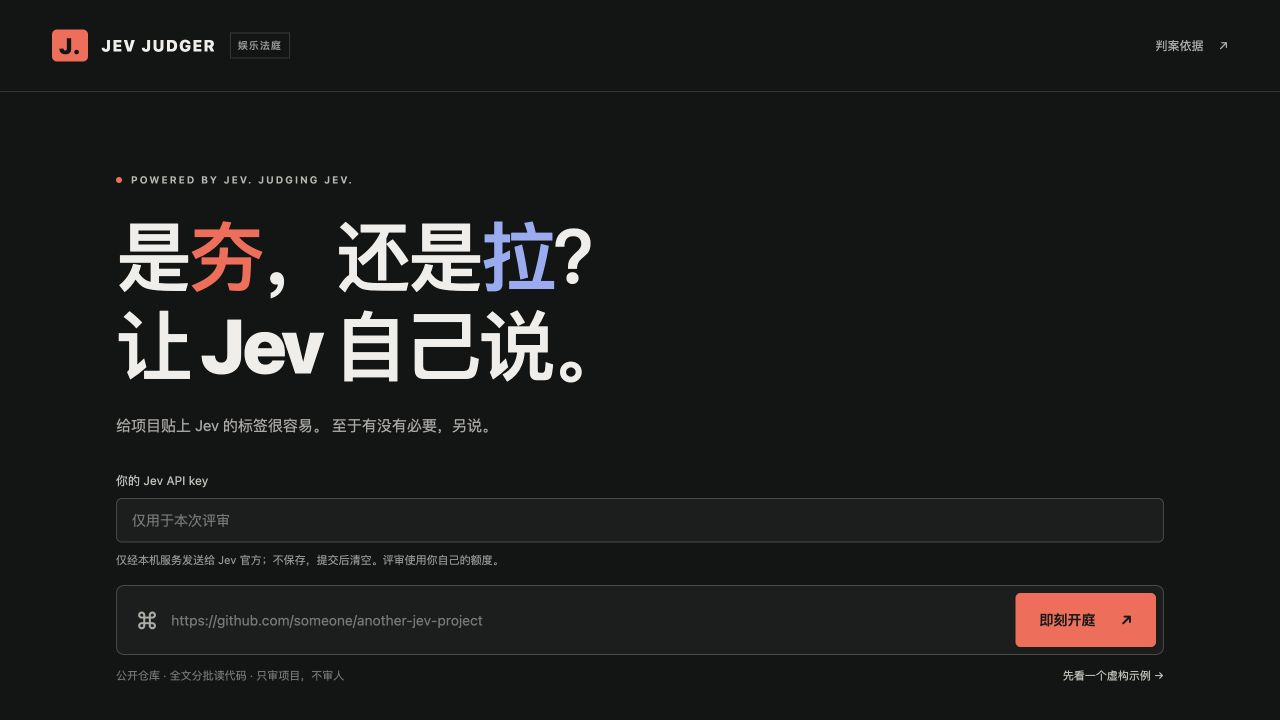
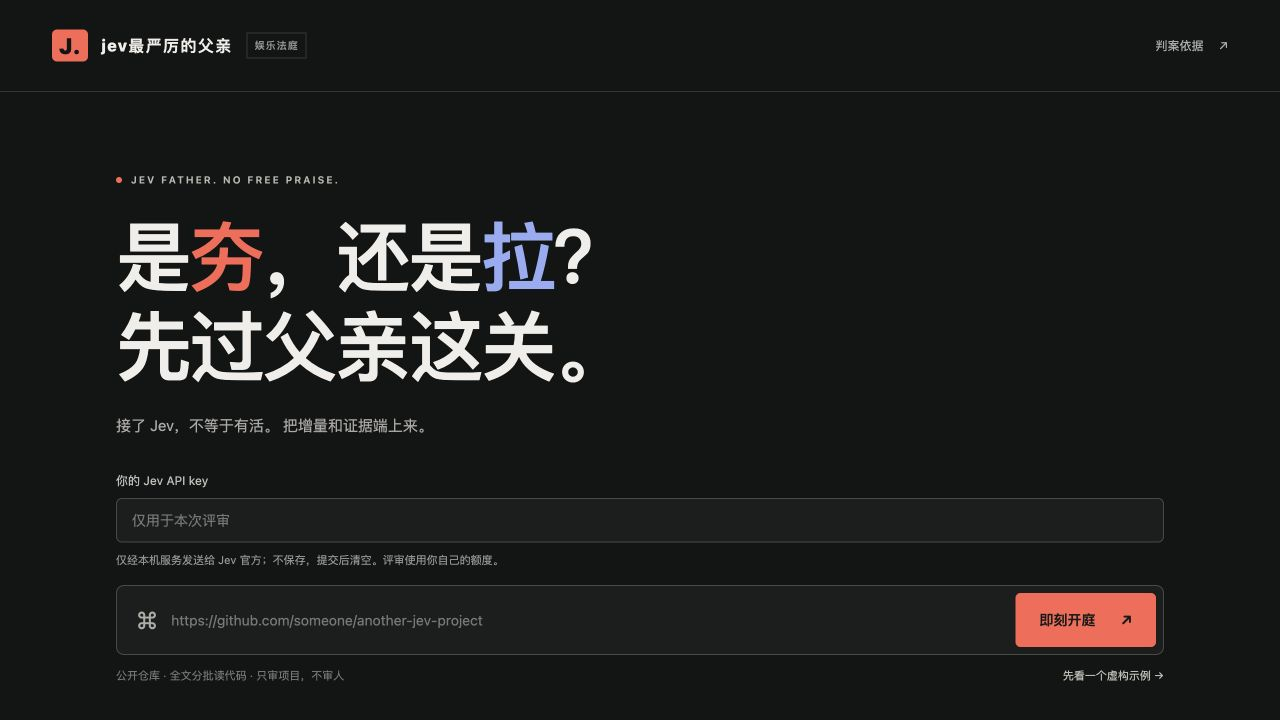
Rename to jev-father and demand demonstrated incremental value

diff --git a/public/style.css b/public/style.css
@@ -1,3 +1,5 @@
 :root{color-scheme:dark;--bg:#131414;--panel:#1b1c1d;--line:#343536;--text:#efeee9;--muted:#949593;--accent:#ff6552;font-family:Inter,-apple-system,BlinkMacSystemFont,"Segoe UI","PingFang SC","Microsoft YaHei",sans-serif;font-synthesis:none}*{box-sizing:border-box}html{scroll-behavior:smooth}body{margin:0;background:var(--bg);color:var(--text)}button,input{font:inherit}button,a,input{ -webkit-tap-highlight-color:transparent}a{color:inherit;text-decoration:none}button{cursor:pointer}button:disabled{cursor:wait;opacity:.55}a:focus-visible,button:focus-visible,summary:focus-visible{outline:2px solid var(--accent);outline-offset:5px}.topbar{max-width:1320px;margin:auto;height:92px;padding:0 52px;display:flex;justify-content:space-between;align-items:center;border-bottom:1px solid var(--line)}.brand{font-size:16px;font-weight:800;letter-spacing:1.4px;display:flex;align-items:center;gap:13px}.brand-icon{background:var(--accent);color:var(--bg);font-size:22px;border-radius:5px;padding:3px 7px;font-weight:900}.beta{font-size:10px;letter-spacing:1px;color:var(--muted);border:1px solid var(--line);padding:5px 7px;margin-left:1px;font-weight:500}.how-link{font-size:12px;color:#b1b2ae}.how-link span{margin-left:12px}main{max-width:1120px;padding:0 36px;margin:auto}.hero{padding:72px 0 39px}.eyebrow{font-size:10px;letter-spacing:2px;font-weight:600;color:#b8bab2;display:flex;align-items:center;gap:9px}.live-dot{width:6px;height:6px;border-radius:50%;background:var(--accent)}h1{font-size:clamp(44px,6.6vw,76px);line-height:1.18;letter-spacing:-3px;margin:25px 0 21px;font-weight:850}.hot{color:var(--accent)}.cold{color:#95acf4}.intro{font-size:15px;color:#aaa9a5;line-height:1.9;margin:0 0 33px}.mobile-br{display:none}.input-wrap{display:flex;align-items:center;padding:7px;border:1px solid #494a48;background:#1c1d1d;border-radius:8px;gap:13px;transition:border .2s}.input-wrap:focus-within{border-color:#a19e96}.git-mark{font-size:24px;padding-left:12px;color:#acada6}input{min-width:0;flex:1;color:var(--text);background:transparent;border:0;outline:0;font-size:14px;padding:11px 0}input::placeholder{color:#787a76}.input-wrap button{border:0;border-radius:5px;background:var(--accent);color:#181918;font-size:14px;font-weight:800;padding:17px 24px;white-space:nowrap}.input-wrap button span{margin-left:22px}.form-meta{display:flex;align-items:center;justify-content:space-between;gap:12px;margin-top:13px;color:#777b75;font-size:11px}.text-button{border:0;padding:0;color:#bdc0b7;background:none;font-size:11px}.text-button:hover{color:var(--accent)}.config{font-size:12px;color:#cdb99b;border-left:2px solid #957959;padding-left:10px;margin:18px 0 0}#status{font-size:13px;padding:14px 16px;border:1px solid var(--line);border-radius:5px;line-height:1.7}#status.error{color:#ff958b;border-color:#63423e}#status.loading{color:#f1d563}#status.loading:before{content:'';display:inline-block;width:8px;height:8px;border-radius:50%;background:currentColor;margin-right:10px;animation:pulse 1s infinite alternate}@keyframes pulse{to{opacity:.2}}.tier-scale{display:grid;grid-template-columns:repeat(5,1fr);gap:8px}.tier-scale>div{border:1px solid #343535;border-top:3px solid var(--tier);background:#1b1c1c;padding:17px 18px;display:flex;justify-content:space-between;align-items:baseline;gap:8px;border-radius:3px}.tier-scale b{font-size:20px;color:var(--tier);white-space:nowrap}.tier-scale span{font-size:10px;color:#8d9089;white-space:nowrap}.how{margin-top:73px;border-top:1px solid var(--line);padding-top:32px}.section-heading>span{font-size:10px;letter-spacing:2px;color:#84897e}.section-heading h2{font-size:26px;letter-spacing:-.7px;margin:15px 0 9px}.section-heading p{font-size:12px;color:var(--muted);margin:0}.steps{display:grid;grid-template-columns:repeat(3,1fr);gap:32px;margin-top:35px}.step{font-size:12px;font-family:monospace;color:var(--accent)}.steps article{position:relative;border-left:1px solid var(--line);padding-left:21px}.steps h3{font-size:16px;margin:15px 0 10px}.steps p{font-size:12px;color:#979b93;line-height:1.95;max-width:275px;min-height:47px}.steps code{font-size:10px;color:#c1c4ba}footer{border-top:1px solid var(--line);margin-top:56px;padding:25px 0 32px;color:#797e75;display:flex;justify-content:space-between;gap:20px;font-size:10px;letter-spacing:.6px}.footer-dot{margin:0 9px;color:var(--accent)}.sr-only{position:absolute;width:1px;height:1px;padding:0;overflow:hidden;clip:rect(0,0,0,0);white-space:nowrap;border:0}[hidden]{display:none!important}#result{margin-top:36px;scroll-margin-top:20px}.result-shell{border:1px solid #46463f;border-radius:8px;overflow:hidden;background:#1b1c1c}.result-top{padding:18px 24px;display:flex;justify-content:space-between;gap:14px;font-size:12px;border-bottom:1px solid var(--line);overflow-wrap:anywhere}.result-top span{color:var(--muted)}.demo-label{color:#ffb454!important;font-size:11px}.verdict{display:grid;grid-template-columns:140px 1fr;gap:26px;padding:32px 28px}.stamp{display:flex;align-items:center;justify-content:center;font-size:46px;font-weight:900;letter-spacing:-2px;border:2px solid var(--verdict);color:var(--verdict);border-radius:6px;transform:rotate(-5deg);min-height:115px;text-align:center;padding:10px}.stamp.long{font-size:28px}.verdict-copy small{font-size:10px;letter-spacing:1.8px;color:var(--muted)}.verdict-copy h2{font-size:26px;margin:13px 0 12px;line-height:1.5;letter-spacing:-.6px}.verdict-copy p{font-size:12px;color:#a4a69c;line-height:1.8;margin:0}.distribution{display:flex;gap:6px;padding:0 28px 27px;flex-wrap:wrap}.prob{flex:1;min-width:80px;background:#232523;border-radius:4px;padding:10px}.prob div{display:flex;justify-content:space-between;font-size:10px;color:#aeb3a8;gap:12px}.prob-track{height:3px;background:#393b36;margin-top:10px}.prob-fill{height:100%;background:var(--verdict)}.dimensions{border-top:1px solid var(--line);padding:0 25px}.dimension{display:grid;grid-template-columns:125px 1fr 58px;gap:22px;padding:20px 0;border-bottom:1px solid var(--line);align-items:start}.dimension:last-child{border-bottom:0}.dimension h3{font-size:13px;margin:3px 0}.dimension strong{font-weight:500;font-size:14px;color:#e8e8df}.dimension p{font-size:11px;color:#969b90;line-height:1.85;margin:8px 0 0}.confidence{font-family:monospace;font-size:12px;color:#a4a99e;text-align:right;padding-top:4px}.evidence{margin-top:18px;border:1px solid var(--line);border-radius:6px;padding:18px 22px;font-size:12px;color:#afb4a8}.evidence summary{cursor:pointer;color:#d4d9cc;line-height:1.7}.evidence p{line-height:1.8}.evidence a{color:#ffb454;text-decoration:underline;text-underline-offset:3px}.file{border-top:1px solid var(--line);padding:14px 0}.file summary{font-family:monospace;font-size:11px}pre{white-space:pre-wrap;overflow-wrap:anywhere;background:#101211;padding:15px;line-height:1.7;font-size:11px;color:#aeb6a3;max-height:320px;overflow:auto}.result-actions{display:flex;gap:16px;margin-top:18px}.result-actions button{border:1px solid #494d43;background:transparent;padding:9px 13px;border-radius:4px;color:#d0d6c7;font-size:11px}.limitations{font-size:11px;color:#828b79;line-height:1.9;margin:17px 0}.warn{color:#ffb454!important}@media(min-width:1200px){.hero{padding-top:82px}}@media(max-width:900px){.tier-scale>div{flex-direction:column;gap:7px;padding:14px}.topbar{padding:0 36px}.verdict-copy h2{font-size:23px}}@media(max-width:600px){main{padding:0 21px}.topbar{height:74px;padding:0 21px}.brand{font-size:12px;gap:9px}.beta{font-size:9px}.how-link{font-size:10px}.hero{padding-top:49px}.eyebrow{font-size:8px;letter-spacing:1.5px}h1{font-size:47px;letter-spacing:-2px}.intro{font-size:13px}.mobile-br{display:block}.git-mark{display:none}.input-wrap{gap:5px}input{font-size:12px;padding-left:8px}.input-wrap button{font-size:12px;padding:14px 12px}.input-wrap button span{margin-left:5px}.form-meta{align-items:flex-start;flex-direction:column;font-size:10px;gap:13px}.tier-scale{gap:5px}.tier-scale>div{padding:12px 6px;align-items:center}.tier-scale b{font-size:17px}.tier-scale span{font-size:8px;white-space:normal;text-align:center;line-height:1.5}.how{margin-top:49px}.steps{grid-template-columns:1fr;gap:27px}.steps p{max-width:none;min-height:0}.section-heading h2{font-size:23px}footer{font-size:9px;flex-direction:column;gap:13px}.verdict{grid-template-columns:90px 1fr;padding:25px 17px;gap:17px}.stamp{font-size:30px;min-height:95px}.stamp.long{font-size:21px}.verdict-copy h2{font-size:19px}.verdict-copy small{font-size:8px}.verdict-copy p{font-size:10px}.distribution{padding:0 17px 22px}.prob{min-width:75px}.dimension{grid-template-columns:1fr 46px;gap:9px}.dimension h3{grid-column:1/-1;color:#c8ccbf;font-size:11px}.dimension strong{font-size:13px}.result-top{padding:15px 17px;font-size:10px;flex-direction:column}.dimensions{padding:0 17px}.evidence{padding:16px}.config{line-height:1.8}}@media(prefers-reduced-motion:reduce){html{scroll-behavior:auto}*{animation:none!important;transition:none!important}}
 
 .key-field{margin-bottom:15px}.key-field label{display:block;font-size:12px;color:#bfc1b9;margin-bottom:9px}.key-field input{box-sizing:border-box;width:100%;border:1px solid #494a48;border-radius:6px;padding:13px 15px;background:#1c1d1d}.key-field input:focus{border-color:#a19e96}.key-field p{font-size:11px;color:var(--muted);line-height:1.8;margin:8px 0 0}
+
+@media(max-width:600px){.brand .beta{display:none}.brand{letter-spacing:0}}

diff --git a/public/index.html b/public/index.html
@@ -1,20 +1,20 @@
 <!doctype html>
 <html lang="zh-CN">
-<head><meta charset="utf-8"><meta name="viewport" content="width=device-width, initial-scale=1"><title>Jev Judger · 从夯到拉</title><link rel="icon" href="/favicon.svg"><link rel="stylesheet" href="/style.css"></head>
+<head><meta charset="utf-8"><meta name="viewport" content="width=device-width, initial-scale=1"><title>jev最严厉的父亲</title><link rel="icon" href="/favicon.svg"><link rel="stylesheet" href="/style.css"></head>
 <body>
-  <header class="topbar"><a class="brand" href="/"><span class="brand-icon">J.</span> JEV JUDGER<span class="beta">娱乐法庭</span></a><a class="how-link" href="#how">判案依据 <span>↗</span></a></header>
+  <header class="topbar"><a class="brand" href="/"><span class="brand-icon">J.</span> jev最严厉的父亲<span class="beta">娱乐法庭</span></a><a class="how-link" href="#how">判案依据 <span>↗</span></a></header>
   <main>
     <section class="hero">
-      <div class="eyebrow"><span class="live-dot"></span> POWERED BY JEV. JUDGING JEV.</div>
-      <h1>是<span class="hot">夯</span>，还是<span class="cold">拉</span>？<br>让 Jev 自己说。</h1>
-      <p class="intro">给项目贴上 Jev 的标签很容易。<br class="mobile-br"> 至于有没有必要，另说。</p>
+      <div class="eyebrow"><span class="live-dot"></span> JEV FATHER. NO FREE PRAISE.</div>
+      <h1>是<span class="hot">夯</span>，还是<span class="cold">拉</span>？<br>先过父亲这关。</h1>
+      <p class="intro">接了 Jev，不等于有活。<br class="mobile-br"> 把增量和证据端上来。</p>
       <form id="judge-form" autocomplete="off"><div class="key-field"><label for="api-key">你的 Jev API key</label><input id="api-key" type="password" placeholder="仅用于本次评审" autocomplete="off" spellcheck="false" autocapitalize="none" maxlength="1024" aria-describedby="key-help"><p id="key-help">仅经本机服务发送给 Jev 官方；不保存，提交后清空。评审使用你自己的额度。</p></div><label for="repo-url" class="sr-only">GitHub 仓库链接</label><div class="input-wrap"><span class="git-mark" aria-hidden="true">⌘</span><input id="repo-url" name="url" type="url" placeholder="https://github.com/someone/another-jev-project" autocomplete="off" required><button id="submit" type="submit">即刻开庭 <span>↗</span></button></div></form>
       <div class="form-meta"><span>公开仓库 · 全文分批读代码 · 只审项目，不审人</span><button id="demo" class="text-button">先看一个虚构示例 →</button></div>
       <p id="config" class="config" hidden></p><p id="status" role="status" aria-live="polite" hidden></p>
     </section>
-    <section class="tier-scale" aria-label="从夯到拉五档评价"><div style="--tier:#ff6552"><b>夯</b><span>用在刀刃上</span></div><div style="--tier:#ffb454"><b>顶级</b><span>确实有点东西</span></div><div style="--tier:#f1d563"><b>人上人</b><span>有活，但不多</span></div><div style="--tier:#88c6a8"><b>NPC</b><span>接上了，然后呢</span></div><div style="--tier:#95acf4"><b>拉</b><span>这也能怪 Jev？</span></div></section>
+    <section class="tier-scale" aria-label="从夯到拉五档评价"><div style="--tier:#ff6552"><b>夯</b><span>用在刀刃上</span></div><div style="--tier:#ffb454"><b>顶级</b><span>基线确实赢了</span></div><div style="--tier:#f1d563"><b>人上人</b><span>增量拿证据说话</span></div><div style="--tier:#88c6a8"><b>NPC</b><span>接上了，然后呢</span></div><div style="--tier:#95acf4"><b>拉</b><span>这也能怪 Jev？</span></div></section>
     <section id="result" hidden aria-label="评价结果"></section>
-    <section id="how" class="how"><div class="section-heading"><span>01 / THE HARNESS</span><h2>一点依据，一点嘴替。</h2><p>看实际增量，保留正反依据，最后用 Choice 选档。</p></div><div class="steps"><article><span class="step">01</span><h3>把项目端上来</h3><p>固定 commit，读取范围内的全部源码和文档。重复内容去重，长实验日志统计全部记录，外部资料单独存档。</p><code>GitHub → full-text batches</code></article><article><span class="step">02</span><h3>逐批看，放一起判</h3><p>每批用 Choice 判断五个维度并选择来源片段，再做一次全项目复核，保留正反意见。</p><code>batches → Choice → merge</code></article><article><span class="step">03</span><h3>Jev 亲自落锤</h3><p>普通封装起步 NPC；有用集成可到人上人；顶级与夯要有对照支持增益。仍由 Jev 五选一。</p><code>1 × Choice → 从夯到拉</code></article></div></section>
-    <footer><span>JEV JUDGER <span class="footer-dot">/</span> 一本正经，仅供娱乐。</span><a href="https://docs.typesafe.ai/primitives/choice" target="_blank" rel="noreferrer">Jev native, literally. ↗</a></footer>
+    <section id="how" class="how"><div class="section-heading"><span>01 / THE HARNESS</span><h2>不收孝心，只看证据。</h2><p>看实际增量，保留正反依据，最后用 Choice 选档。</p></div><div class="steps"><article><span class="step">01</span><h3>把项目端上来</h3><p>固定 commit，读取范围内的全部源码和文档。重复内容去重，长实验日志统计全部记录，外部资料单独存档。</p><code>GitHub → full-text batches</code></article><article><span class="step">02</span><h3>逐批看，放一起判</h3><p>每批用 Choice 判断五个维度并选择来源片段，再做一次全项目复核，保留正反意见。</p><code>batches → Choice → merge</code></article><article><span class="step">03</span><h3>Jev 亲自落锤</h3><p>能用不等于优秀。通用集成先看 NPC；人上人要验证新增能力；顶级与夯要公平基线和消融。</p><code>1 × Choice → 从夯到拉</code></article></div></section>
+    <footer><span>JEV FATHER <span class="footer-dot">/</span> 严厉归严厉，只审项目不审人。</span><a href="https://docs.typesafe.ai/primitives/choice" target="_blank" rel="noreferrer">Jev native, literally. ↗</a></footer>
   </main><script type="module" src="/app.js"></script>
 </body></html>

diff --git a/public/app.js b/public/app.js
@@ -54,7 +54,7 @@ function render(result) {
   $('#result').innerHTML = `
     <div class="result-shell" style="--verdict:${esc(result.color)}">
       <div class="result-top"><b>${repoLabel}</b><span class="${result.demo ? 'demo-label' : ''}">${result.demo ? '虚构示例 · 预设结果 · 未调用 Jev' : `COMMIT ${esc(repo.sha.slice(0, 7))} · ${repo.files.length} 个文件`}</span></div>
-      <div class="verdict"><div class="stamp ${result.label.length > 2 ? 'long' : ''}">${esc(result.label)}</div><div class="verdict-copy"><small>THE JEV VERDICT / ${result.demo ? '示例判决' : 'JEV 终审'}</small><h2>${esc(result.line)}</h2><p>最终档位由 Jev Choice 选择 · 模型置信度 ${pct(result.confidence)}${result.demo ? '' : ` · ${result.batchCount} 批材料 · ${result.calls} 次调用 · ${(result.inferenceMs / 1000).toFixed(1)}s`}</p>${result.uncertain ? '<p class="warn">摇摆判决：Jev 自己也没太大把握。</p>' : ''}</div></div>
+      <div class="verdict"><div class="stamp ${result.label.length > 2 ? 'long' : ''}">${esc(result.label)}</div><div class="verdict-copy"><small>THE JEV VERDICT / ${result.demo ? '示例判决' : '父亲终审'}</small><h2>${esc(result.line)}</h2><p>最终档位由 Jev Choice 选择 · 模型置信度 ${pct(result.confidence)}${result.demo ? '' : ` · ${result.batchCount} 批材料 · ${result.calls} 次调用 · ${(result.inferenceMs / 1000).toFixed(1)}s`}</p>${result.uncertain ? '<p class="warn">摇摆判决：Jev 自己也没太大把握。</p>' : ''}</div></div>
       <div class="distribution">${Object.entries(result.probabilities).map(([name, value]) => `<div class="prob"><div><span>${esc(name)}</span><span>${pct(value)}</span></div><div class="prob-track"><div class="prob-fill" style="width:${Math.max(0, Math.min(100, value * 100))}%"></div></div></div>`).join('')}</div>
       <div class="dimensions">${result.dimensions.map(d => `<article class="dimension"><h3>${esc(d.name)}</h3><div><strong>${esc(d.roast || d.reason)}</strong>${d.roast ? `<p>${esc(d.reason)}</p>` : ''}${d.uncertain ? '<p class="warn">暂定倾向，模型判断有不确定性；已保留给终审参考。</p>' : ''}</div><span class="confidence" title="分项模型置信度">${d.skip ? '免考' : pct(d.confidence)}</span></article>`).join('')}</div>
     </div>
@@ -72,12 +72,12 @@ function render(result) {
     if ($('#engine').open) $('#engine pre').textContent = JSON.stringify({ preparation: result.preparation, evidence: result.evidence, usage: result.usage, stages: result.stages, payloads: result.payloads, responses: result.raw }, null, 2);
   });
   $('#copy').addEventListener('click', async () => {
-    const text = `${result.demo ? '【虚构示例，非真实评价】\n' : ''}${repo.fullName}：${result.label}\n${result.line}\n${result.dimensions.map(d => `${d.name}：${d.roast || d.reason}`).join('\n')}\nJev Judger · 静态文本审阅，仅供娱乐${repo.url ? `\n${repo.url}\ncommit: ${repo.sha}` : ''}`;
+    const text = `${result.demo ? '【虚构示例，非真实评价】\n' : ''}${repo.fullName}：${result.label}\n${result.line}\n${result.dimensions.map(d => `${d.name}：${d.roast || d.reason}`).join('\n')}\njev最严厉的父亲 · 静态文本审阅，仅供娱乐${repo.url ? `\n${repo.url}\ncommit: ${repo.sha}` : ''}`;
     try { await navigator.clipboard.writeText(text); $('#copy').textContent = '已复制 ✓'; } catch { status('剪贴板不可用，请下载 JSON。', 'error'); }
   });
   $('#download').addEventListener('click', () => {
     const url = URL.createObjectURL(new Blob([JSON.stringify(current, null, 2)], { type: 'application/json' }));
-    const a = document.createElement('a'); a.href = url; a.download = `jev-judgment-${repo.sha.slice(0, 7)}.json`; a.click();
+    const a = document.createElement('a'); a.href = url; a.download = `jev-father-${repo.sha.slice(0, 7)}.json`; a.click();
     setTimeout(() => URL.revokeObjectURL(url), 1000);
   });
   $('#result').scrollIntoView({ behavior: 'smooth', block: 'start' });

diff --git a/AGENTS.md b/AGENTS.md
@@ -1,13 +1,13 @@
-# Install and launch Jev Judger
+# Install and launch Jev Father
 
 When the user asks to install, run, or try this repository, complete the local setup and open the working page. Do not hand the user an installation checklist. For code changes or review, follow the actual request instead of starting the app automatically.
 
 ## Local setup
 
-1. Use this checkout if already present. Otherwise clone `https://github.com/Nplace-su/jev-judger` into an appropriate user workspace. Preserve existing files and uncommitted work. If Git is unavailable, downloading and extracting the GitHub source archive is sufficient. If repository access is denied, report the actual access problem; do not change repository visibility.
+1. Use this checkout if already present. Otherwise clone `https://github.com/Nplace-su/jev-father` into an appropriate user workspace. Preserve existing files and uncommitted work. If Git is unavailable, downloading and extracting the GitHub source archive is sufficient. If repository access is denied, report the actual access problem; do not change repository visibility.
 2. Check Node.js. Minimum is 20.12; prefer a supported LTS version already installed. This project has no third-party packages: no `npm install`, build, Docker, database, or API key is needed to launch it. If Node is missing or too old, install a supported LTS runtime using the user's existing version manager/package manager or an official nodejs.org distribution. Prefer a user-local installation; preserve their existing default runtime. Honor the agent environment's permissions and approval policy. If runtime installation is blocked, explain that specific blocker.
-3. From the repository, run `npm run start:agent` (or `node scripts/agent-start.mjs` if npm is unavailable). It starts a detached local service, waits for its health endpoint, and returns JSON with `url`, `status`, and, for a new process, `pid` and `log`. It reuses a healthy Jev Judger service and tries ports 3210–3220 when occupied. An explicit `PORT` or existing `.env` changes the starting port. Never kill an unrelated process to free a port.
-4. Verify the returned URL: `GET /api/health` must return `app: "jev-judger"` and `status: "ready"`; `GET /` must serve the Jev Judger page. Open that URL with the available browser tool or normal system browser. If browser interaction is available, click “先看一个虚构示例” and verify the clearly labeled demo result. Do not call real Jev just to check installation. A sandbox/container/remote environment must expose or forward the local port before claiming that the user's browser can reach it.
+3. From the repository, run `npm run start:agent` (or `node scripts/agent-start.mjs` if npm is unavailable). It starts a detached local service, waits for its health endpoint, and returns JSON with `url`, `status`, and, for a new process, `pid` and `log`. It reuses a healthy Jev Father service and tries ports 3210–3220 when occupied. An explicit `PORT` or existing `.env` changes the starting port. Never kill an unrelated process to free a port.
+4. Verify the returned URL: `GET /api/health` must return `app: "jev-father"` and `status: "ready"`; `GET /` must serve the Jev Father page. Open that URL with the available browser tool or normal system browser. If browser interaction is available, click “先看一个虚构示例” and verify the clearly labeled demo result. Do not call real Jev just to check installation. A sandbox/container/remote environment must expose or forward the local port before claiming that the user's browser can reach it.
 5. Leave the server running and report the clickable local URL, where it was installed, and a short stop instruction for the process you started. If reusing an existing service, do not guess its PID. The user enters their own Jev API key and public GitHub URL in the page.
 
 ## Credentials and boundaries

diff --git a/docs/harness.md b/docs/harness.md
@@ -19,7 +19,19 @@ GitHub URL
 
 一个小仓库只需读一批再终审；多批仓库是 **阅读批次数 + 2 次**（一次复核、一次终审）。同一请求内的多个 Choice 不会各自发 HTTP 请求，state 只摄入一次。README 不再重复附加到每批。全项目复核保留每个维度的每种判断、概率和一份原文片段，批次个数不是投票；其余原文和回答在导出中可查。这种有界复核仍可能漏掉跨文件联系，不等同于完整调用图分析。
 
-评分以 Jev 的额外价值为中心：普通 API/UI 封装默认 NPC；有实际用途的非平凡集成可以是人上人；顶级需要合理基线支持的增益，夯还需要显著且稳健的增益。缺少基线不等于拉，拉需要明确的不适配、劣化或严重夸大。每个维度只按本批实质证据判断，unknown 保留为未涉及；最终仍只五选一，不用代码强行封顶或定档。机器人项目不强制真机，不因仿真扣分，但安全控制器的存在不等于 Jev 的职责就合理；已有规划、感知和控制器能力不算作者或 Jev 的新贡献。
+评分以 Jev 的独立增量为中心，严格但不为低分而低分：
+
+| 档位 | 门槛 |
+| --- | --- |
+| 夯 | 满足顶级要求，且在多个条件或重复运行下显著、稳定获益，交代失败、成本和适用边界。 |
+| 顶级 | 同任务、同信息、同预算的强基线对照 + 移除/替换 Jev 的消融，有可追溯的评测实现及结果。 |
+| 人上人 | 有领域特有机制，具体困难场景和失败/边界案例验证了新增任务能力。 |
+| NPC | 通用 API 应用、组件拼接、harness 或演示；可以有用、诚实、工程完整，但未验证领域特有增量。 |
+| 拉 | 有具体反证支持核心错配、负收益、无效决策或严重的贡献归因夸大。 |
+
+分批、缓存、重试、UI、JSON 校验和 mock 测试属于常规工程，不自动获得人上人。输入是文字、输出是 Choice，不自动等于任务适配；复杂多步归因也需要检验。最终仍完全由 Jev Choice 决定，无程序封顶或加权分数；没有“证据不足”终审档。缺少对照不等于拉，不把未验证主张说成造假。
+
+只评价目标项目的真实职责。评审工具里的机器人题目、引用案例与虚构 fixture，不代表评审工具本身是机器人系统。机器人项目不强制真机、不因仿真扣分，但执行器、特权状态、轨迹预演的能力不能全部归给 Jev。
 
 材料准备规则公开在页面清单和 JSON：`context/sources`、`docs/sources`、`third_party`、`external`、`vendor` 等目录按外部背景存档，不送作项目贡献证据；这是目录启发式，可能误识别。其余内容 SHA-256 精确去重。超过 30,000 字符的有效 JSONL 按已知实验条件分组，全部行参与数量、错误、数值指标和已提供 truth 的比较统计，并附首尾及错误样例；无法解析、条件过多或压缩不明显时回退全文。统计不包含所有字符串和完整分布，不证明因果增益。原文件完整保留，可下载复查。
 

diff --git a/README.md b/README.md
@@ -1,16 +1,16 @@
-![Jev Judger 前端页面](docs/images/preview.jpg)
+![jev最严厉的父亲 前端页面](docs/images/preview.jpg)
 
-# Jev Judger · 从夯到拉
+# jev最严厉的父亲
 
-**用 Jev 评价基于 Jev 的项目。娱乐法庭，只审项目，不审人。**
+**jev-father：用 Jev 严格评价基于 Jev 的项目。不给鼓励分，只审项目，不审人。**
 
-输入公开 GitHub 仓库链接，看它是用在刀刃上，还是强行接入。全文分批审阅、保留正反依据，最后由 Jev Choice 在 **夯 / 顶级 / 人上人 / NPC / 拉** 中落锤。
+能跑只是起点，增量拿证据说话。输入公开 GitHub 仓库链接，看它是用在刀刃上，还是强行接入。全文分批审阅、保留正反依据，最后由 Jev Choice 在 **夯 / 顶级 / 人上人 / NPC / 拉** 中落锤。
 
 ## 让 Coding Agent 装好
 
 把这段话发给 **Codex 或 Claude Code**：
 
-> 帮我安装并启动这个项目，打开本地网页：https://github.com/Nplace-su/jev-judger
+> 帮我安装并启动这个项目，打开本地网页：https://github.com/Nplace-su/jev-father
 
 Agent 会处理环境、启动本地服务并打开浏览器。你只需要填 **Jev API key + 公开仓库链接**。
 

diff --git a/CLAUDE.md b/CLAUDE.md
@@ -1,4 +1,4 @@
-# Jev Judger
+# Jev Father
 
 For installation and startup, read and follow [AGENTS.md](AGENTS.md).
 Complete setup, verify the running local page, and open it for the user; do not just return commands. Users enter their API key in the page, not in chat.
